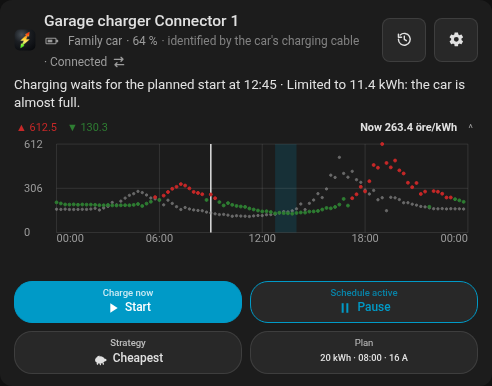
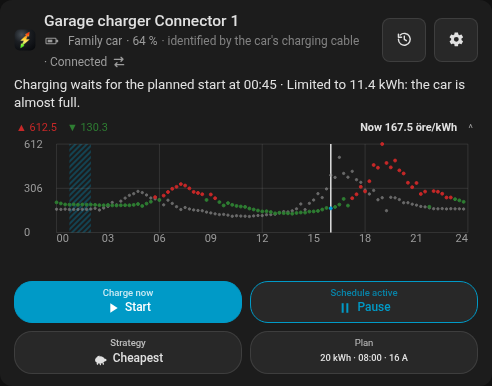
Retake the card pictures in the documentation with the three-hour labels.

diff --git a/docs/card.md b/docs/card.md
@@ -54,7 +54,7 @@ chosen under [Display](#display), its main unit (kr, €).
   instead, so they never run into each other. Until tomorrow's prices are published, **From now** looks
   exactly like **Day**.
 
-  ![The card on From now: the now line at the left edge, today's prices then tomorrow's, and a dashed line at midnight named 15 Thu](images/card-from-now.png)
+  ![The card on From now: the now line at the left edge, today's prices then tomorrow's, and a dashed line at midnight named 18 Sun](images/card-from-now.png)
 
 - Bars cheaper than the day's average are marked as cheap and pricier ones as expensive. A line
   marks now, and the current interval is highlighted.
